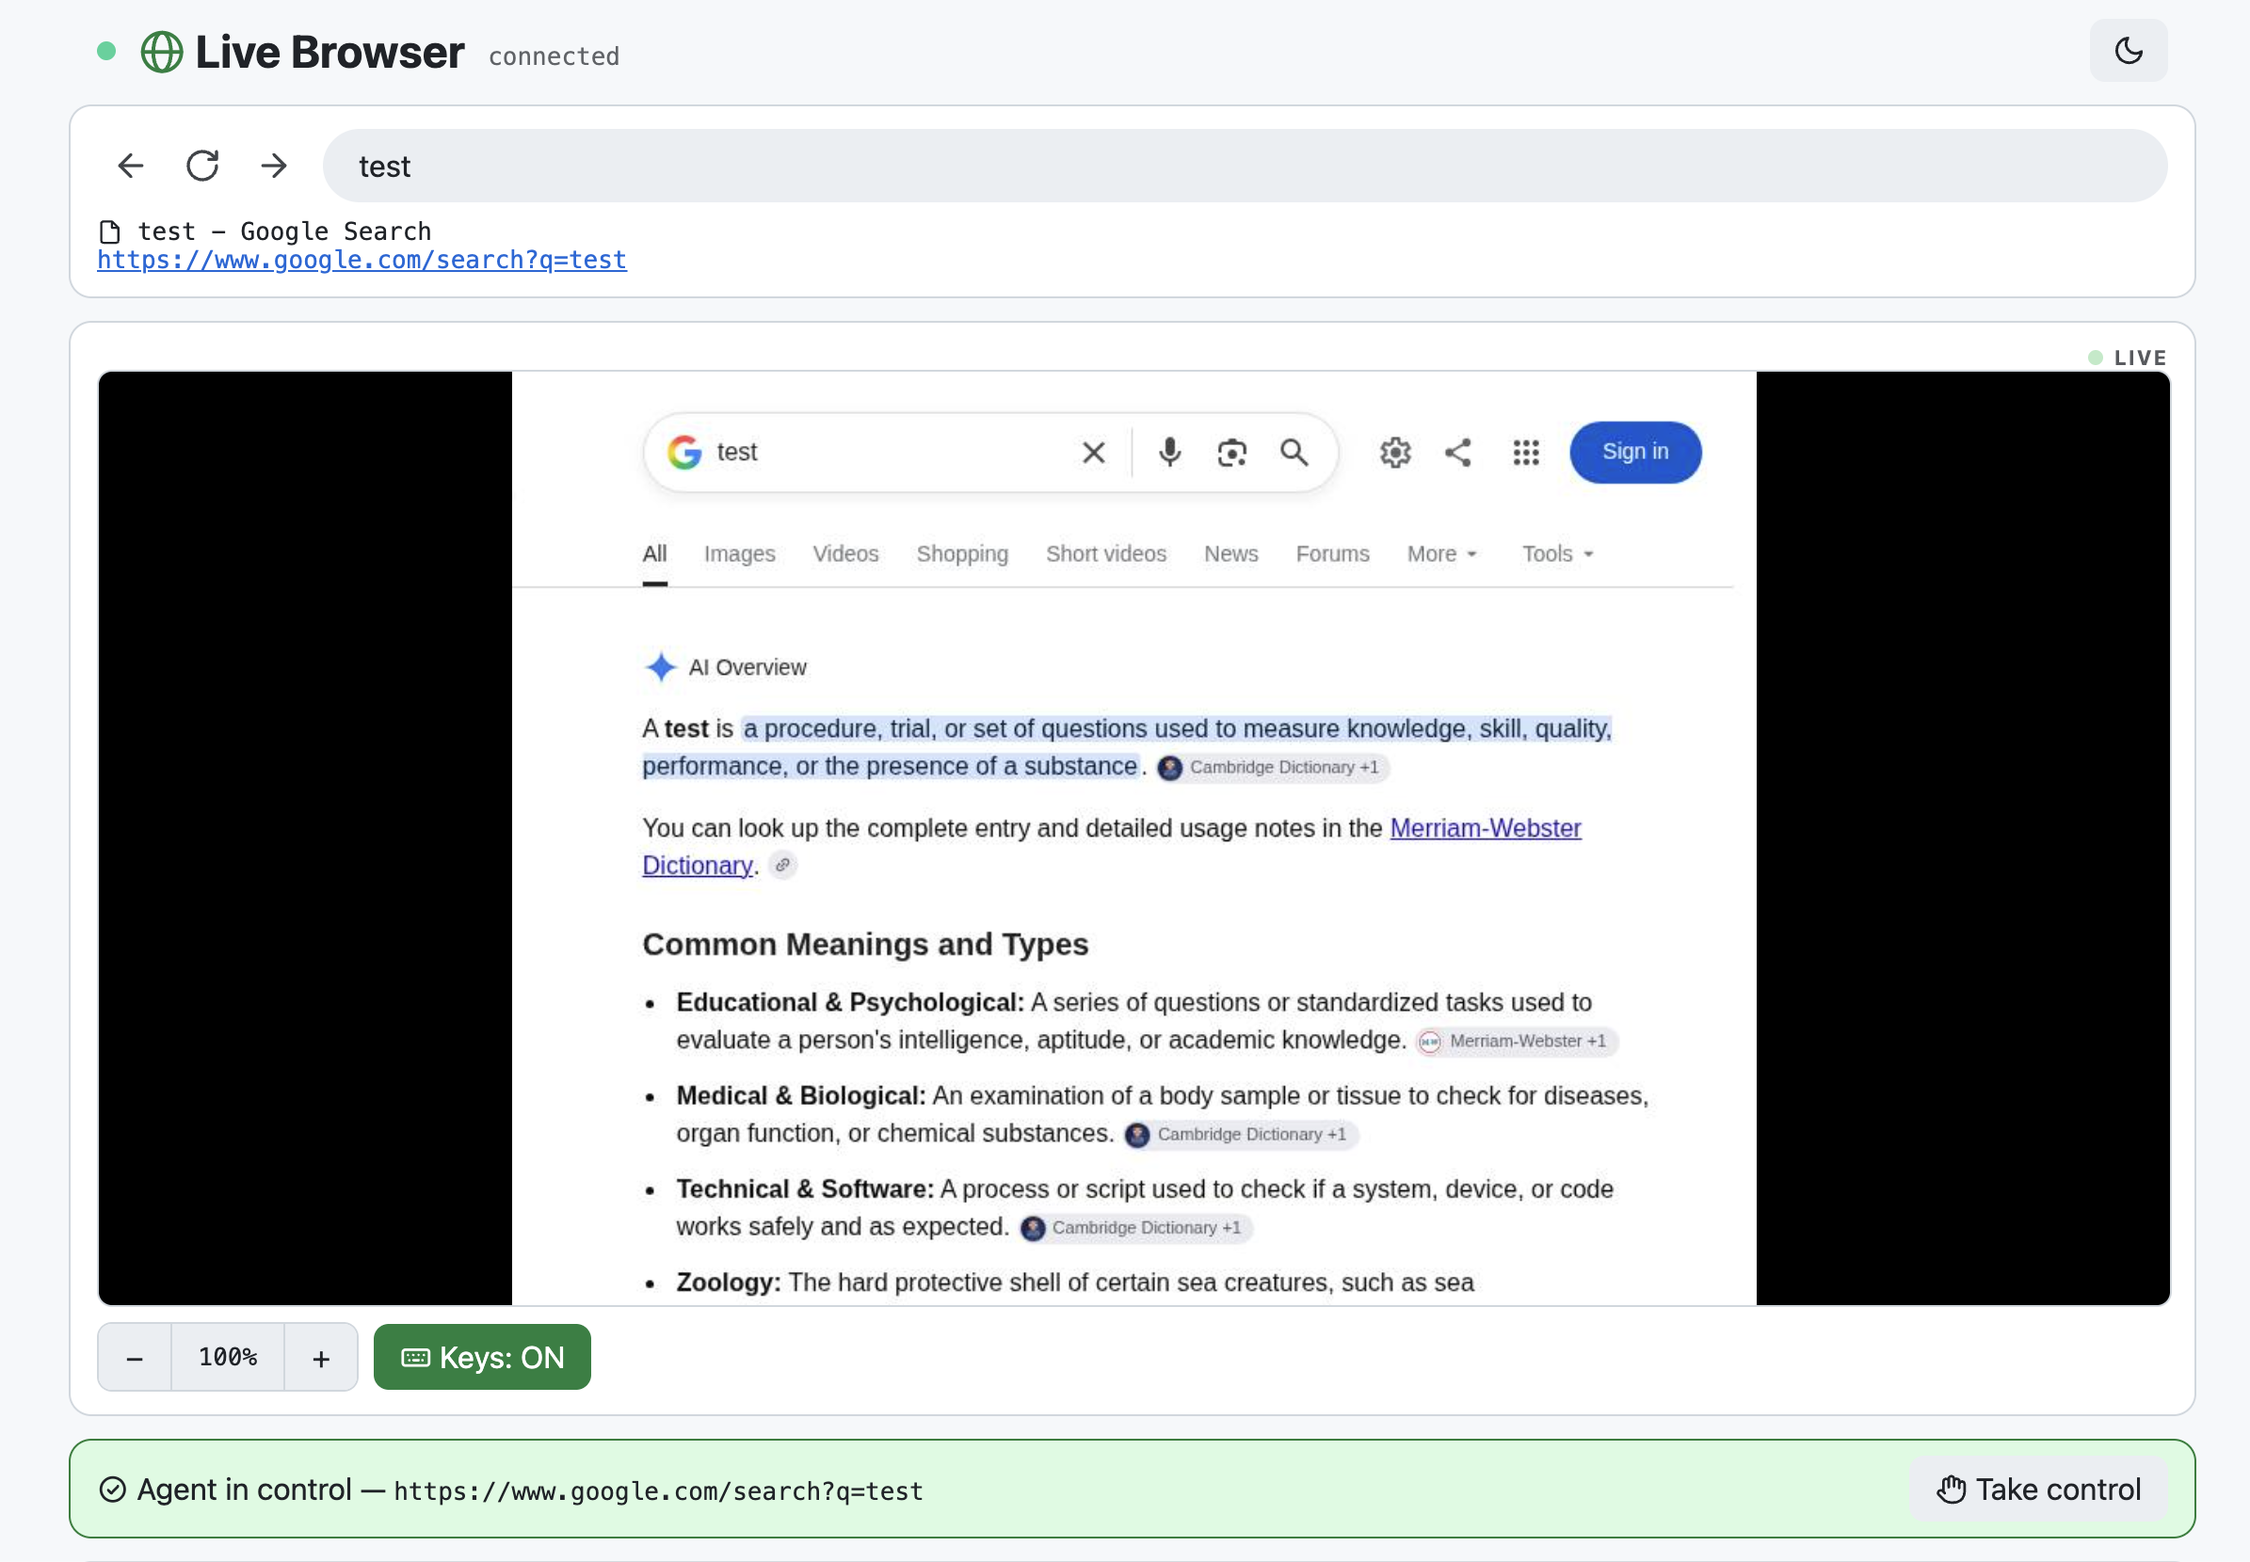
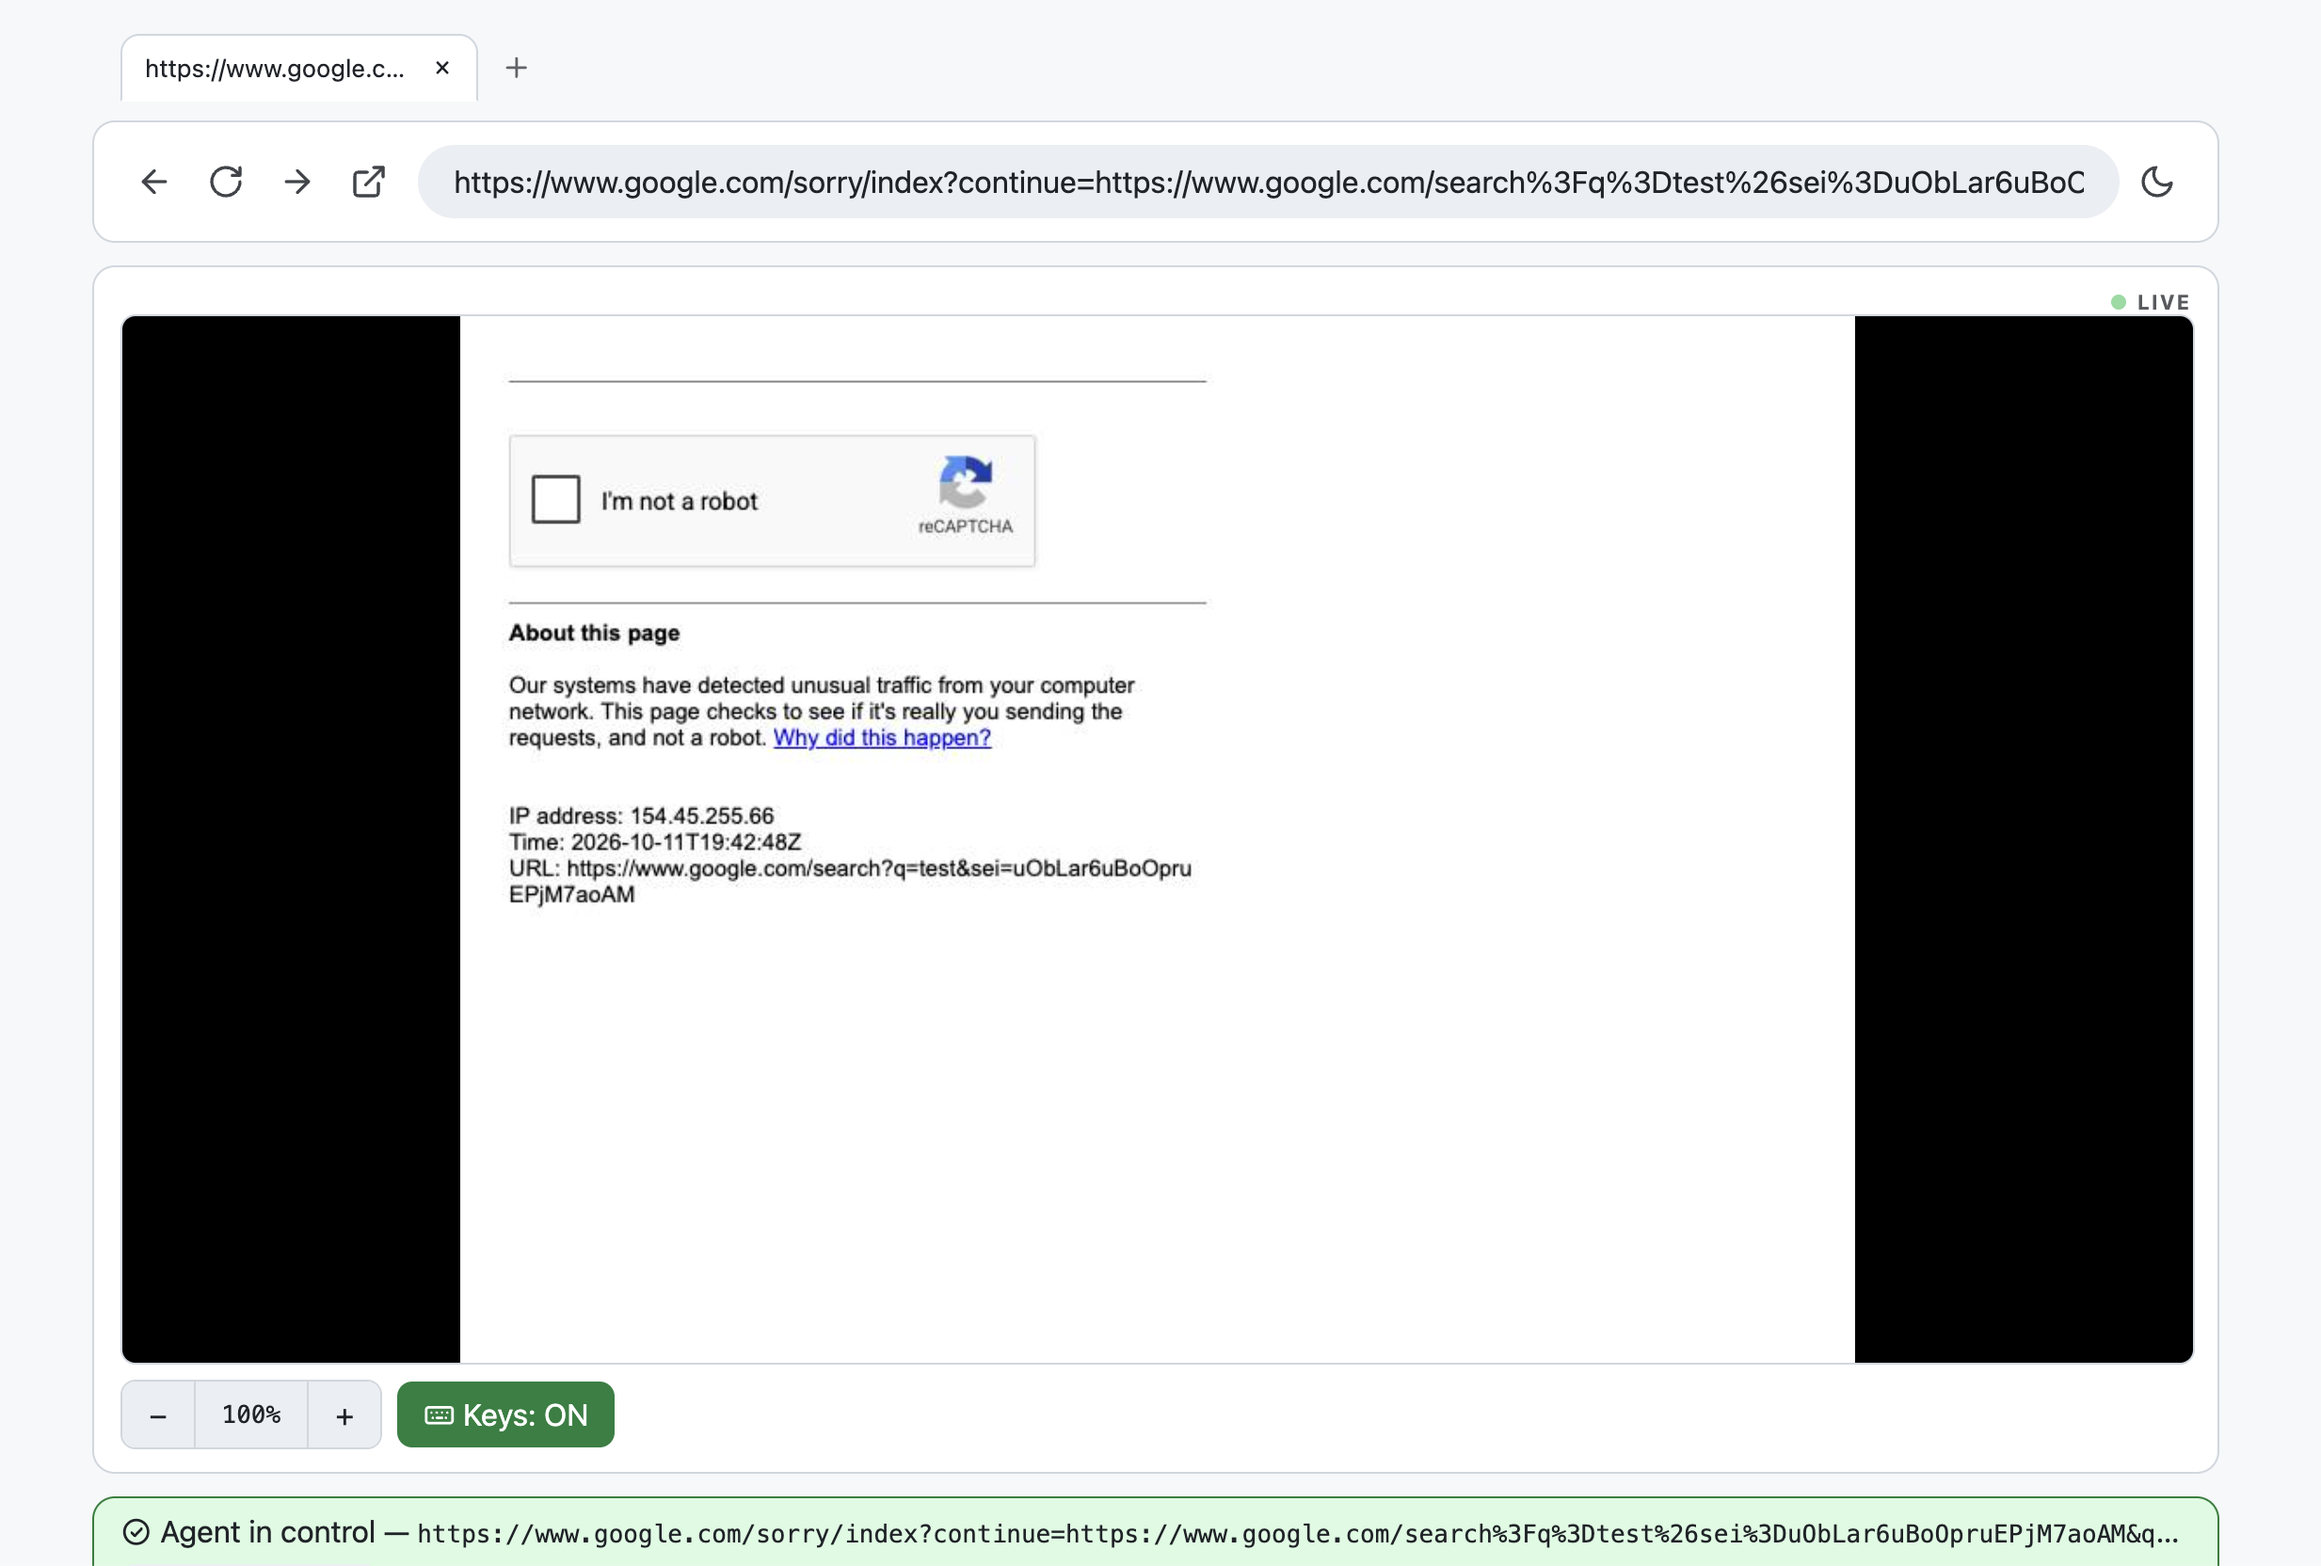
Update README

diff --git a/README.md b/README.md
@@ -1,10 +1,8 @@
-# 🌐 Live Browser
-
 **One browser, two drivers — you and your agent, in the same tab, at the same time.**
 
 Drive any page from the CLI (`lb click`, `lb type`, `lb snapshot`, …) while
 watching the live view — and grab control yourself for logins, captchas, and
-judgment calls, then hand back. Neither side steps on the other.
+judgment calls, then hand back. You can see where agents get stuck and unstuck them by using the Web UI, just like the way how you use the browser.
 
 ![Live Browser UI](docs/ui.png)
 
@@ -183,9 +181,3 @@ src/webctl.rs  `lb web stop`/`restart` (pidfile lifecycle)
 src/update.rs  `lb update` + startup update reminder
 web/           Svelte 5 + TS + Vite monitor app (build → web/dist)
 ```
-
-## Minimal on purpose
-
-Single tab, single browser, polling screenshots — no multi-tab orchestration, no WebSocket
-streaming, no remote input injection in the UI (the human uses the real browser window).
-Those are the obvious next steps if this workflow proves useful.
